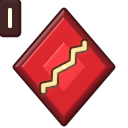
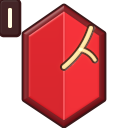
DESIGN-MODULES : icones d'apres la 2e critique (puissance en cristal qui se fend puis eclate, portee II a deux crochets) ; copie jetable : ne double pas le retour des modules (take_result d'experimentaux)

diff --git a/tools/render/pieces/modules/icones_geants.py b/tools/render/pieces/modules/icones_geants.py
@@ -135,8 +135,8 @@ def _union(sds):
 def geo_portee_viseur(k):
     """VISEUR DE VERROUILLAGE : la lentille d'une optique vue de face, verre violet profond dont la lueur monte vers le centre, bague
     épaisse, réticule à montants (« duplex »). Le palier se lit à la forme :
-    I : réticule simple ; II : points de mesure, anneau de distance et un crochet de verrouillage ; III : trois crochets hors de la
-    bague (le cercle de verrouillage du tir en jeu).
+    I : réticule simple ; II : points de mesure, anneau de distance et deux crochets de verrouillage (en bas) ; III : trois crochets hors
+    de la bague et index allumés (le cercle de verrouillage du tir en jeu).
     Jets écartés : « wifi » (générique), « rapporteur » (banal, bruit à 32 px), « anneau percé » (lu ♂), « optique à tourelles » (lue
     chronomètre), bague crantée (lue engrenage, le module de productivité)."""
     cx, cy = 32.5, 33.0
@@ -144,8 +144,8 @@ def geo_portee_viseur(k):
     bague = I.sd_cercle(cx, cy, R_ext)
     pieces = [bague]
     dessus = []
-    # crochets de verrouillage : II un (bas droit), III trois (jamais en haut à gauche : la plaque du palier y est)
-    coins = {1: (), 2: ((1, 1),), 3: ((1, 1), (-1, 1), (1, -1))}[k]
+    # crochets de verrouillage : II deux (en bas), III trois (jamais en haut à gauche : la plaque du palier y est)
+    coins = {1: (), 2: ((1, 1), (-1, 1)), 3: ((1, 1), (-1, 1), (1, -1))}[k]
     if coins:
         crochets = []
         for sx, sy in coins:
@@ -244,114 +244,96 @@ def geo_portee(k):
     return PORTEE_VARIANTES[PORTEE_VARIANTE](k)
 
 
-def _zigzag(p0, p1, amp, n=3, signe=1.0):
-    """Ligne brisée de p0 à p1 (fissure), n coudes alternés de part et d'autre."""
+def _bezier(p0, p1, courbe, n=10):
+    """Courbe douce de p0 à p1 (quadratique), bombée de `courbe` unités vers la gauche du trajet."""
     dx, dy = p1[0] - p0[0], p1[1] - p0[1]
     L = math.hypot(dx, dy)
     nx, ny = -dy / L, dx / L
-    pts = [p0]
-    for i in range(1, n + 1):
-        t = i / (n + 1.0)
-        s = amp * signe * (1 if i % 2 else -1)
-        pts.append((p0[0] + dx * t + nx * s, p0[1] + dy * t + ny * s))
-    pts.append(p1)
+    c = ((p0[0] + p1[0]) / 2 + nx * courbe, (p0[1] + p1[1]) / 2 + ny * courbe)
+    out = []
+    for i in range(n + 1):
+        t = i / float(n)
+        out.append(((1 - t) ** 2 * p0[0] + 2 * (1 - t) * t * c[0] + t * t * p1[0],
+                    (1 - t) ** 2 * p0[1] + 2 * (1 - t) * t * c[1] + t * t * p1[1]))
+    return out
+
+
+def _quad(cx, cy, r, a_deg, allonge):
+    """Débris irrégulier : quadrilatère tourné de a_deg, allongé de `allonge`."""
+    pts = []
+    for k, (ang, rr) in enumerate(((0, 1.0), (100, 0.7), (190, allonge), (275, 0.55))):
+        a = math.radians(a_deg + ang)
+        pts.append((cx + r * rr * math.cos(a), cy + r * rr * math.sin(a)))
     return pts
 
 
 def geo_puissance(k):
-    """CŒUR DE RUPTURE (2e jet, après la critique du 5/11) : un cristal cramoisi taillé (losange à facettes) qui se fissure puis éclate.
-    I : losange entier, deux fissures incandescentes ; II : quatre fissures, les quatre pointes détachées en éclats ; III : le cristal
-    éclate en quatre quartiers écartés, cœur chauffé à blanc dans les failles, débris projetés hors de la silhouette.
-    Jet écarté : étoile à huit pointes (lue « rose des vents » ; son anneau du palier III lu « viseur »)."""
+    """CŒUR DE RUPTURE (3e jet, après la 2e critique du 5/11) : un CRISTAL cramoisi taillé, hexagone allongé à deux faces (arête au milieu,
+    face droite plus claire), qui se fend puis éclate.
+    I : cristal entier, une fissure courbe incandescente ; II : trois fissures courbes jusqu'aux bords, une épaule ébréchée (encoche, aucun
+    éclat détaché) ; III : le cristal éclate en trois morceaux inégaux écartés, cœur chauffé à blanc dans les failles, débris irréguliers.
+    Jets écartés : étoile à 8 pointes (« rose des vents », anneau lu « viseur ») ; losange (lu panneau de danger, carreau de carte ; son X
+    blanc au palier II lu « supprimer », ses 4 pointes détachées lues croix de direction ; son palier III lu insecte)."""
     cx, cy = 32.0, 33.5
-    T, R, B, L = (32.0, 5.5), (56.0, 33.5), (32.0, 61.5), (8.0, 33.5)
-    coins = [T, R, B, L]
-
-    def milieu(p, q, f=0.5):
-        return (p[0] + (q[0] - p[0]) * f, p[1] + (q[1] - p[1]) * f)
-    # fissures : du centre vers le milieu de chaque arête (diagonales du losange), en zigzag
-    M = [milieu(T, R), milieu(R, B), milieu(B, L), milieu(L, T)]       # haut droit, bas droit, bas gauche, haut gauche
-    fiss = [_zigzag((cx, cy), M[j], 1.8, 3, 1.0 if j % 2 == 0 else -1.0) for j in range(4)]
+    T, TR, BR, B, BL, TL = (32.0, 3.5), (51.5, 17.0), (51.5, 49.5), (32.0, 62.5), (12.5, 49.5), (12.5, 17.0)
+    hexa = [T, TR, BR, B, BL, TL]
+    C0 = (cx, cy)
+    face_droite = np.maximum(I.sd_poly([T, TR, BR, B]), -(X - 32.0))     # moitié droite, vers la lumière
     logements, coeurs = [], []
-    facette_pts = [milieu((cx, cy), c, 0.42) for c in coins]
     if k == 1:
-        corps = I.sd_poly(coins) - 0.8
+        corps = I.sd_poly(hexa) - 0.8
         morceaux = [corps]
-        champ = corps + 2.8
-        facette = I.sd_poly(facette_pts) - 0.4
-        for j in (0, 2):                                   # deux fissures : haut droit et bas gauche
-            pts = fiss[j][:-1] + [milieu((cx, cy), M[j], 0.86)]
-            logements.append(I.sd_polyligne(pts, 2.1))
-            coeurs.append((I.sd_polyligne(pts, 1.05), True))
+        champ = corps + 2.7
+        f1 = _bezier(C0, (45.5, 14.0), 3.5)
+        f1b = _bezier(f1[5], (47.5, 30.0), -2.0, 6)
+        for pts, w in ((f1, 1.0), (f1b, 0.8)):
+            logements.append(I.sd_polyligne(pts, w + 1.0))
+            coeurs.append((I.sd_polyligne(pts, w), True))
         noyau = None
     elif k == 2:
-        f = 0.30
-        corps_pts = []
-        for i, c in enumerate(coins):
-            prev, nxt = coins[i - 1], coins[(i + 1) % 4]
-            corps_pts += [milieu(c, prev, f), milieu(c, nxt, f)]
-        # ordre : pour T : vers L puis vers R ; on tourne T, R, B, L
-        corps = I.sd_poly(corps_pts) - 0.6
+        # épaule haute droite ébréchée : encoche taillée dans la silhouette (pas d'éclat posé à côté)
+        encoche = I.sd_poly([(44.0, 9.0), (54.0, 15.0), (52.0, 25.0), (45.5, 17.5)])
+        corps = np.maximum(I.sd_poly(hexa) - 0.8, -encoche)
         morceaux = [corps]
-        champ_l = [corps + 2.8]
-        for i, c in enumerate(coins):
-            prev, nxt = coins[i - 1], coins[(i + 1) % 4]
-            ux, uy = c[0] - cx, c[1] - cy
-            n = math.hypot(ux, uy)
-            ux, uy = ux / n, uy / n
-            d = 3.2
-            tri = [(p[0] + ux * d, p[1] + uy * d) for p in (c, milieu(c, nxt, f), milieu(c, prev, f))]
-            pointe = I.sd_poly(tri) - 0.5
-            morceaux.append(pointe)
-            champ_l.append(pointe + 1.6)
-        champ = _union(champ_l)
-        facette = I.sd_poly(facette_pts) - 0.4
-        for j in range(4):
-            pts = fiss[j][:-1] + [milieu((cx, cy), M[j], 0.93)]
-            logements.append(I.sd_polyligne(pts, 2.0))
-            coeurs.append((I.sd_polyligne(pts, 1.0), True))
-        noyau = None
-    else:
-        # quatre quartiers (un coin chacun), bordés par les fissures, écartés vers leur coin
-        morceaux, champ_l = [], []
-        quart = [(3, 0, T), (0, 1, R), (1, 2, B), (2, 3, L)]   # (fissure d'un côté, fissure de l'autre, coin)
-        for ja, jb, c in quart:
-            ux, uy = c[0] - cx, c[1] - cy
-            n = math.hypot(ux, uy)
-            ux, uy = ux / n, uy / n
-            d = 3.4
-            poly = list(fiss[ja]) + [c] + list(reversed(fiss[jb]))
-            # le quartier : centre, fissure a jusqu'au milieu d'arête, coin, milieu d'arête de la fissure b, retour au centre
-            poly = [(p[0] + ux * d, p[1] + uy * d) for p in poly[:-1]]
-            q = I.sd_poly(poly) - 0.5
-            morceaux.append(q)
-            champ_l.append(q + 2.4)
-        # noyau chauffé à blanc et failles de lave entre les quartiers
-        noyau = I.sd_cercle(cx, cy, 6.8)
-        failles = _union([I.sd_polyligne(fiss[j], 1.9) for j in range(4)])
-        morceaux += [noyau, failles]
-        # débris projetés hors de la silhouette, dans l'axe des failles (pas en haut à gauche : la plaque du palier y est)
-        for j in (0, 1, 2):
-            mx, my = M[j]
-            ux, uy = mx - cx, my - cy
-            n = math.hypot(ux, uy)
-            ux, uy = ux / n, uy / n
-            px, py = mx + ux * 6.5, my + uy * 6.5
-            tri = [(px + ux * 3.2, py + uy * 3.2), _rot(px - ux * 2.0 + uy * 2.6, py - uy * 2.0 - ux * 2.6, px, py, 0),
-                   (px - ux * 2.0 - uy * 2.6, py - uy * 2.0 + ux * 2.6)]
-            deb = I.sd_poly(tri) - 0.3
-            morceaux.append(deb)
-            champ_l.append(deb + 0.9)
-        champ = _union(champ_l)
-        facette = None
-        logements.append(noyau + 1.2)
+        champ = np.maximum(I.sd_poly(hexa) + 1.9, -(encoche - 2.7))
+        fiss = [_bezier(C0, (46.0, 17.5), 3.0), _bezier(C0, (17.0, 50.0), -4.0), _bezier(C0, (12.5, 30.0), 2.5),
+                _bezier(C0, (44.0, 56.0), -2.5)]
+        for j, pts in enumerate(fiss):
+            w = 1.05 if j < 2 else 0.8
+            logements.append(I.sd_polyligne(pts, w + 1.0))
+            coeurs.append((I.sd_polyligne(pts, w), True))
+        noyau = I.sd_cercle(cx, cy, 3.6)
+        logements.append(noyau + 1.0)
         coeurs.append((noyau, True))
-        coeurs.append((failles + 0.6, True))
-        for j in range(4):
-            coeurs.append((I.sd_polyligne(fiss[j], 1.0), True))
+    else:
+        # trois failles inégales (angles irréguliers : ni « Y », ni croix) ; P2 sur l'arête haute droite, P1 et P3 sur les flancs
+        P1, P2, P3 = (12.5, 41.0), (41.0, 9.8), (51.5, 44.0)
+        c1, c2, c3 = _bezier(C0, P1, 3.5), _bezier(C0, P2, -3.0), _bezier(C0, P3, 2.5)
+        haut = [C0] + c1[1:] + [TL, T] + list(reversed(c2))[:-1]
+        gauche = [C0] + c1[1:] + [BL, B, BR] + list(reversed(c3))[:-1]
+        droite = [C0] + c3[1:] + [TR] + list(reversed(c2))[:-1]
+        morceaux, champ_l = [], []
+        for poly, (dx, dy) in ((haut, (-3.2, -3.0)), (gauche, (-1.0, 3.6)), (droite, (4.4, -1.2))):
+            q = I.sd_poly([(px + dx, py + dy) for px, py in poly]) - 0.5
+            morceaux.append(q)
+            champ_l.append(q + 2.3)
+        noyau = I.sd_cercle(cx, cy, 6.6)
+        failles = _union([I.sd_polyligne(c, 2.0) for c in (c1, c2, c3)])
+        morceaux += [noyau, failles]
+        for d in (_quad(58.5, 52.0, 4.2, 20, 1.5), _quad(52.0, 3.8, 3.4, 140, 1.2), _quad(5.0, 55.0, 3.0, 250, 1.6),
+                  _quad(58.0, 26.0, 2.6, 300, 1.3), _quad(26.0, 62.0, 2.2, 60, 1.4)):
+            q = I.sd_poly(d) - 0.25
+            morceaux.append(q)
+            champ_l.append(q + 0.8)
+        champ = _union(champ_l)
+        logements.append(noyau + 1.1)
+        coeurs.append((noyau, True))
+        coeurs.append((failles + 0.7, True))
+        for c in (c1, c2, c3):
+            coeurs.append((I.sd_polyligne(c, 1.0), True))
     sil = _union(morceaux)
-    return dict(sil=sil, champ=champ, logements=logements, coeurs=coeurs, grad=None, centre=(cx, cy), slots=[], facette=facette,
-                noyau=noyau)
+    return dict(sil=sil, champ=champ, logements=logements, coeurs=coeurs, grad=None, centre=(cx, cy), slots=[],
+                faces=[(face_droite, 1.28)], arete=I.sd_segment(32.0, 5.5, 32.0, 60.5, 0.5) if k < 3 else None, noyau=noyau)
 
 
 GEO = {"portee": geo_portee, "puissance": geo_puissance}
@@ -406,6 +388,15 @@ def rendre_art(t, k, avec_plaque_vecteur=False):
         a_dc = I.couv(sd + 1.9)
         poser(a_dc, R["champ"])
         H += 0.9 * I.profil(sd + 1.9, 1.2) * a_dc
+    for sd, mult in g.get("faces") or []:
+        # face du cristal tournée vers la lumière : plus claire, plus lisse
+        a_f = I.couv(sd) * a_champ
+        poser(a_f, dict(rgb=tuple(min(1.0, v * mult + 0.01) for v in R["champ"]["rgb"]), rough=0.26, met=0.14))
+    if g.get("arete") is not None:
+        # arête du cristal : reflet fin
+        a_a = I.couv(g["arete"]) * a_champ
+        alb = I._melange(alb, tuple(min(1.0, v * 1.9 + 0.08) for v in R["champ"]["rgb"]), a_a * 0.8)
+        H += 0.6 * a_a
     if g.get("facette") is not None:
         # table du cristal : facette plus claire et plus lisse
         a_f = I.couv(g["facette"]) * a_champ

diff --git a/tools/autotest/xpm/jetable.py b/tools/autotest/xpm/jetable.py
@@ -113,7 +113,7 @@ def main():
         k = g.find("\n", j) + 1
         g = g[:k] + "  for _, f in ipairs(ecouteurs) do f(e, r, g.bonus, c, eff) end -- COPIE JETABLE DESIGN-MODULES\n" + g[k:]
         poses.append("crochet G.ecoute")
-    if "eq in ipairs(e.grid.equipment) do rendre(" not in g:
+    if "eq in ipairs(e.grid.equipment) do rendre(" not in g and "take_result" not in g:
         g = inserer_avant(g, "    rendre(player, e, name)\n",
                           "    if e.grid then for _, eq in ipairs(e.grid.equipment) do rendre(player, e, eq.name) end end -- COPIE JETABLE DESIGN-MODULES\n", gp)
         poses.append("modules rendus au refus")
